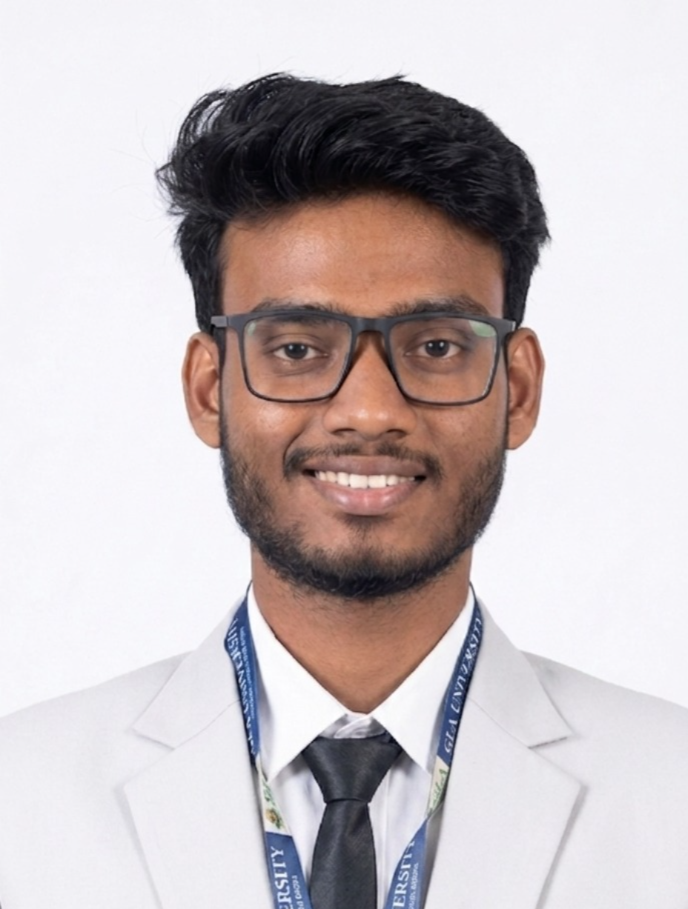
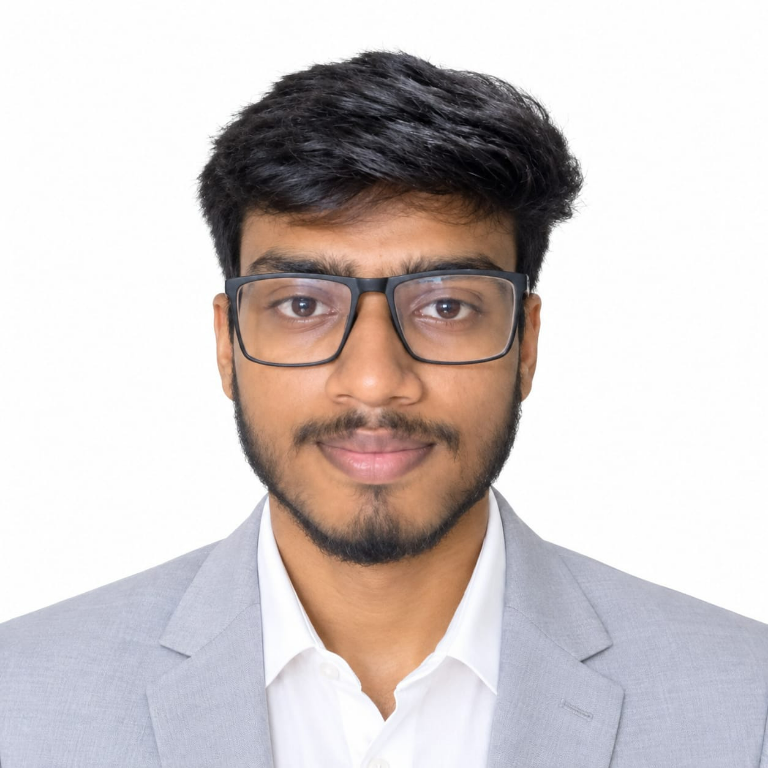
Update portfolio profile image

diff --git a/dist/index.html b/dist/index.html
@@ -19,7 +19,7 @@
   <link href="https://fonts.googleapis.com/css2?family=Plus+Jakarta+Sans:wght@300;400;500;600;700;800&family=JetBrains+Mono:wght@400;500&display=swap" rel="stylesheet">
   <link rel="stylesheet" href="https://cdnjs.cloudflare.com/ajax/libs/font-awesome/6.4.0/css/all.min.css">
   
-  <!-- Custom Design System Stylesheet -->
+  <!-- Custom Design System Stylesheet -->
   <link rel="stylesheet" crossorigin href="/assets/index-BN1vz9mV.css">
 </head>
 <body>
@@ -28,7 +28,7 @@
   <header class="navbar">
     <div class="container navbar-container">
       <a href="#hero" class="brand-logo">
-        <img src="/assets/aditya_photo-BZ4PImFy.jpg" alt="Aditya Saxena" class="brand-avatar">
+        <img src="/assets/aditya_photo-CXaylLCc.jpg" alt="Aditya Saxena" class="brand-avatar">
         <span>Aditya Saxena</span>
       </a>
 
@@ -91,7 +91,7 @@
 
       <div class="hero-photo-wrapper">
         <div class="hero-photo-card">
-          <img src="/assets/aditya_photo-BZ4PImFy.jpg" alt="Aditya Saxena Profile Photo">
+          <img src="/assets/aditya_photo-CXaylLCc.jpg" alt="Aditya Saxena Profile Photo">
         </div>
         <div class="hero-photo-badge">
           <i class="fas fa-graduation-cap" style="color: var(--accent-blue);"></i> B.Tech CSE @ GLA University
